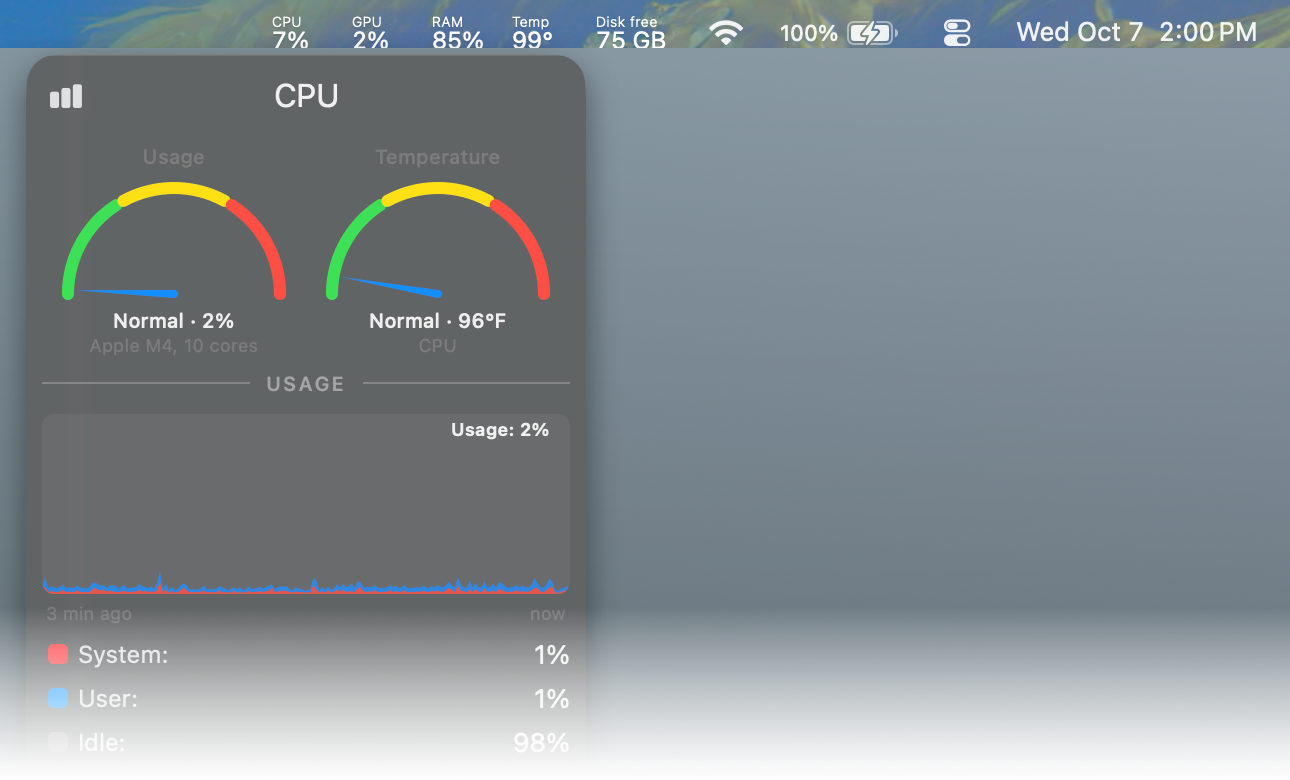
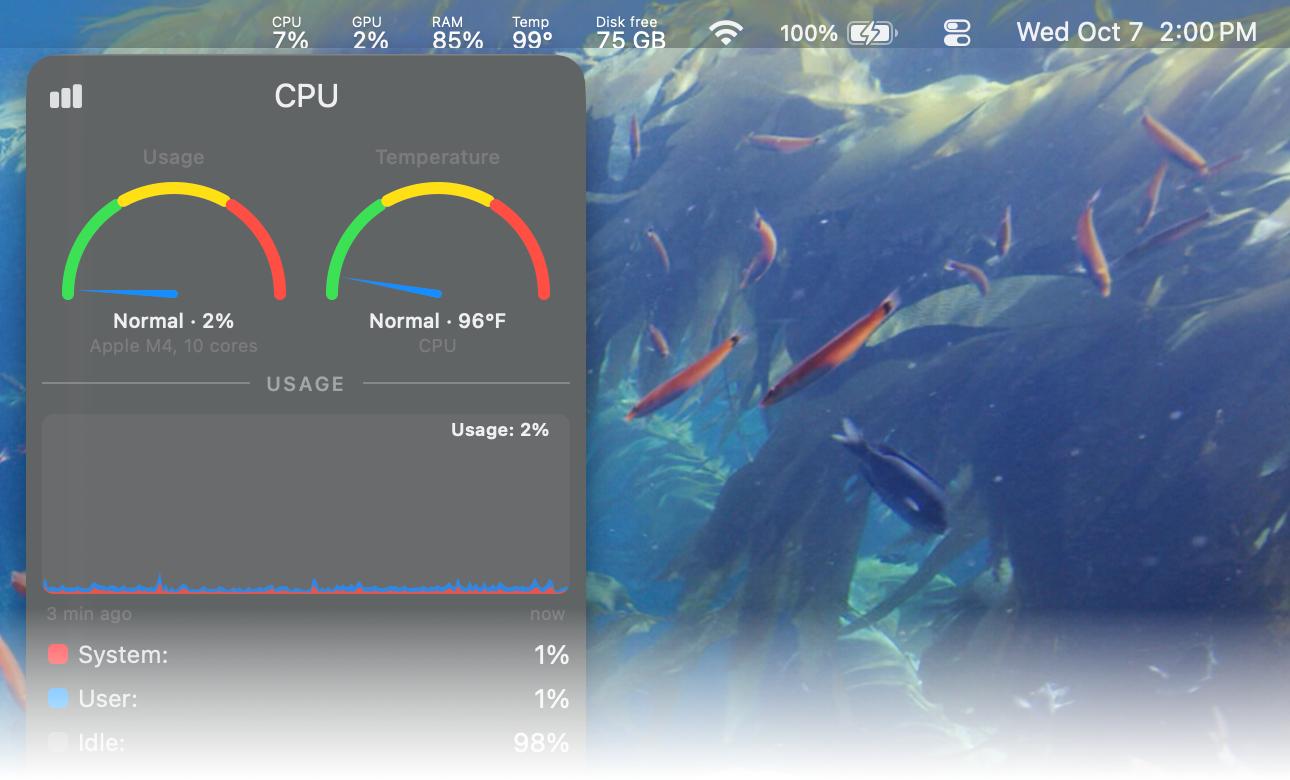
Put the real wallpaper under the README's hero
The hero's gradient covered the desktop. compose-hero.swift now takes
the wallpaper too: previews.sh captures macOS's wallpaper window (it
sits behind every other window, so the capture shows nothing else) and
the compositor crops it to the bar's span, with the bar and the CPU
panel over it.

diff --git a/scripts/compose-hero.swift b/scripts/compose-hero.swift
@@ -1,13 +1,14 @@
 // Composes the README's hero: the top of a Mac screen, with the real menu bar across the
-// top, a wallpaper-like gradient below it (its colours taken from the bar, which is the
-// wallpaper seen through the bar), and a real panel dropped down under its item, as it
-// does when clicked. A bare strip of the bar never reads as a menu bar; the screen's top
+// top, the real wallpaper below it (captured from macOS's wallpaper window, which sits
+// behind every other window, so nothing covers it), and a real panel dropped down under
+// its item, as it does when clicked. Without a wallpaper, a gradient in the bar's colours. A bare strip of the bar never reads as a menu bar; the screen's top
 // edge, the system icons and the clock, and a panel beneath do.
 //
-//   swift scripts/compose-hero.swift <bar.png> <panel.png> <item x in points> <out.png> [<height in points>]
+//   swift scripts/compose-hero.swift <bar.png> <panel.png> <item x in points> <out.png> [<height in points> [<wallpaper.png> <bar x in points>]]
 //
 // bar.png is a 2x capture of the bar from the notch's edge to the screen's right edge;
-// item x is where the panel's item starts, in points from the bar's left edge. With a
+// item x is where the panel's item starts, in points from the bar's left edge; wallpaper.png
+// is a 2x capture of the whole wallpaper window and bar x where the bar's capture starts in it. With a
 // height, the image stops there and the panel fades out towards the bottom edge, a
 // landscape hero that shows the bar and the top of a dropdown; the full panels follow
 // in the README.
@@ -15,7 +16,7 @@
 import Cocoa
 
 let arguments = CommandLine.arguments
-guard arguments.count == 5 || arguments.count == 6, let itemX = Double(arguments[3]),
+guard [5, 6, 8].contains(arguments.count), let itemX = Double(arguments[3]),
       let bar = NSImage(contentsOfFile: arguments[1]), let panel = NSImage(contentsOfFile: arguments[2]),
       let barRep = bar.representations.first as? NSBitmapImageRep, let panelRep = panel.representations.first as? NSBitmapImageRep
 else {
@@ -30,7 +31,7 @@ let panelWidth = Double(panelRep.pixelsWide), panelHeight = Double(panelRep.pixe
 let gap = 3 * scale, margin = 28 * scale
 let width = barWidth
 let fullHeight = barHeight + gap + panelHeight + margin
-let height = arguments.count == 6 ? min(fullHeight, (Double(arguments[5]) ?? 0) * scale) : fullHeight
+let height = arguments.count >= 6 ? min(fullHeight, (Double(arguments[5]) ?? 0) * scale) : fullHeight
 let fades = height < fullHeight
 // The panel sits centred under its item (items are about 40 pt wide), kept inside the edge.
 var panelX = itemX * scale + 20 * scale - panelWidth / 2
@@ -58,9 +59,19 @@ let out = NSBitmapImageRep(bitmapDataPlanes: nil, pixelsWide: Int(width), pixels
 NSGraphicsContext.saveGraphicsState()
 NSGraphicsContext.current = NSGraphicsContext(bitmapImageRep: out)
 let canvas = NSRect(x: 0, y: 0, width: width, height: height)
-// Left to right follows the bar; top to bottom darkens, as a wallpaper does under a menu bar.
-NSGradient(colors: [left, right])!.draw(in: canvas, angle: 0)
-NSGradient(colors: [darker(left, 0.55).withAlphaComponent(0.55), NSColor.clear])!.draw(in: canvas, angle: 90)
+if arguments.count == 8, let wallpaper = NSImage(contentsOfFile: arguments[6]), let barX = Double(arguments[7]),
+   let wallpaperRep = wallpaper.representations.first as? NSBitmapImageRep {
+    // The wallpaper's top edge from where the bar starts, as wide and tall as the canvas.
+    // NSImage measures `from` in its own points, not the capture's pixels.
+    let pointScale = wallpaper.size.width / Double(wallpaperRep.pixelsWide)
+    let from = NSRect(x: barX * scale * pointScale, y: wallpaper.size.height - height * pointScale,
+                      width: width * pointScale, height: height * pointScale)
+    wallpaper.draw(in: canvas, from: from, operation: .copy, fraction: 1)
+} else {
+    // Left to right follows the bar; top to bottom darkens, as a wallpaper does under a menu bar.
+    NSGradient(colors: [left, right])!.draw(in: canvas, angle: 0)
+    NSGradient(colors: [darker(left, 0.55).withAlphaComponent(0.55), NSColor.clear])!.draw(in: canvas, angle: 90)
+}
 // The bar at the top edge, as captured.
 bar.draw(in: NSRect(x: 0, y: height - barHeight, width: barWidth, height: barHeight), from: .zero, operation: .sourceOver, fraction: 1)
 // The panel under its item, with the shadow macOS gives a menu (the shadow follows the

diff --git a/AGENTS.md b/AGENTS.md
@@ -10,7 +10,7 @@ it; this file says how the code is arranged and how to change and release it.
 |---|---|
 | `Sources/MacStats/` | The app, one Swift module. One file per item (`CPU.swift`, `GPU.swift`, `RAM.swift`, `Temp.swift` with `Sensors.swift`, `SMC.swift`, `SensorCatalog.swift` and `Battery.swift`, `Disk.swift`), `MenuKit.swift` (the menu bar item, the panel window, rows, bars, gauges, sparklines, `twoLines`), `HoverTip.swift` (the panels' tooltips), `IOReport.swift` (the private counters the CPU and GPU readers use), `AppIcon.swift` (the icon, drawn in code), `main.swift` (the app delegate and the command line). |
 | `Tests/MacStatsTests/main.swift` | The tests: a program that runs the built `MacStats` through its command-line flags. `make test`. |
-| `docs/previews/` | The README's screenshots, taken by `scripts/previews.sh`: each panel in dark and light (real captures of the built app, with `--appearance` and `--show-panel --after --each`, the flags for screenshots), and `menubar.png`, the hero: the real menu bar from the notch to the screen's edge and the real CPU panel under its item, composed by `scripts/compose-hero.swift` over a gradient taken from the bar's colours and faded at the bottom (a bare strip of the bar never reads as a menu bar; the screen's top edge, the system icons and a dropdown do). Retake them when a panel's look changes. |
+| `docs/previews/` | The README's screenshots, taken by `scripts/previews.sh`: each panel in dark and light (real captures of the built app, with `--appearance` and `--show-panel --after --each`, the flags for screenshots), and `menubar.png`, the hero: the real menu bar from the notch to the screen's edge and the real CPU panel under its item, composed by `scripts/compose-hero.swift` over the real wallpaper (captured from macOS's wallpaper window, which sits behind every other window) and faded at the bottom (a bare strip of the bar never reads as a menu bar; the screen's top edge, the system icons and a dropdown do). Retake them when a panel's look changes. |
 | `scripts/bundle.sh` | Assembles `build/MacStats.app` from the built binary: Info.plist with the version from `VERSION`, the icon, an ad-hoc signature. |
 | `install.sh` | The `curl \| sh` installer and uninstaller; also what `make install` runs from a checkout. |
 | `Makefile` | `app`, `install`, `uninstall`, `test`, `clean`. |

diff --git a/README.md b/README.md
@@ -201,7 +201,7 @@ feature is one file in `Sources/MacStats/` (`CPU.swift`, `GPU.swift`, `RAM.swift
 `Temp.swift`, `Disk.swift`), with `MenuKit.swift` for what the items and panels share and
 `HoverTip.swift` for the tooltips; `main.swift` starts the items and holds the command line. The
 screenshots above come from `scripts/previews.sh`; the one at the top is a composite of the real
-bar and the real CPU panel over a wallpaper-like gradient (`scripts/compose-hero.swift`). See [AGENTS.md](AGENTS.md) for how the pieces
+bar, the real wallpaper and the real CPU panel (`scripts/compose-hero.swift`). See [AGENTS.md](AGENTS.md) for how the pieces
 fit and how a release is made.
 
 ## Credits and licence
